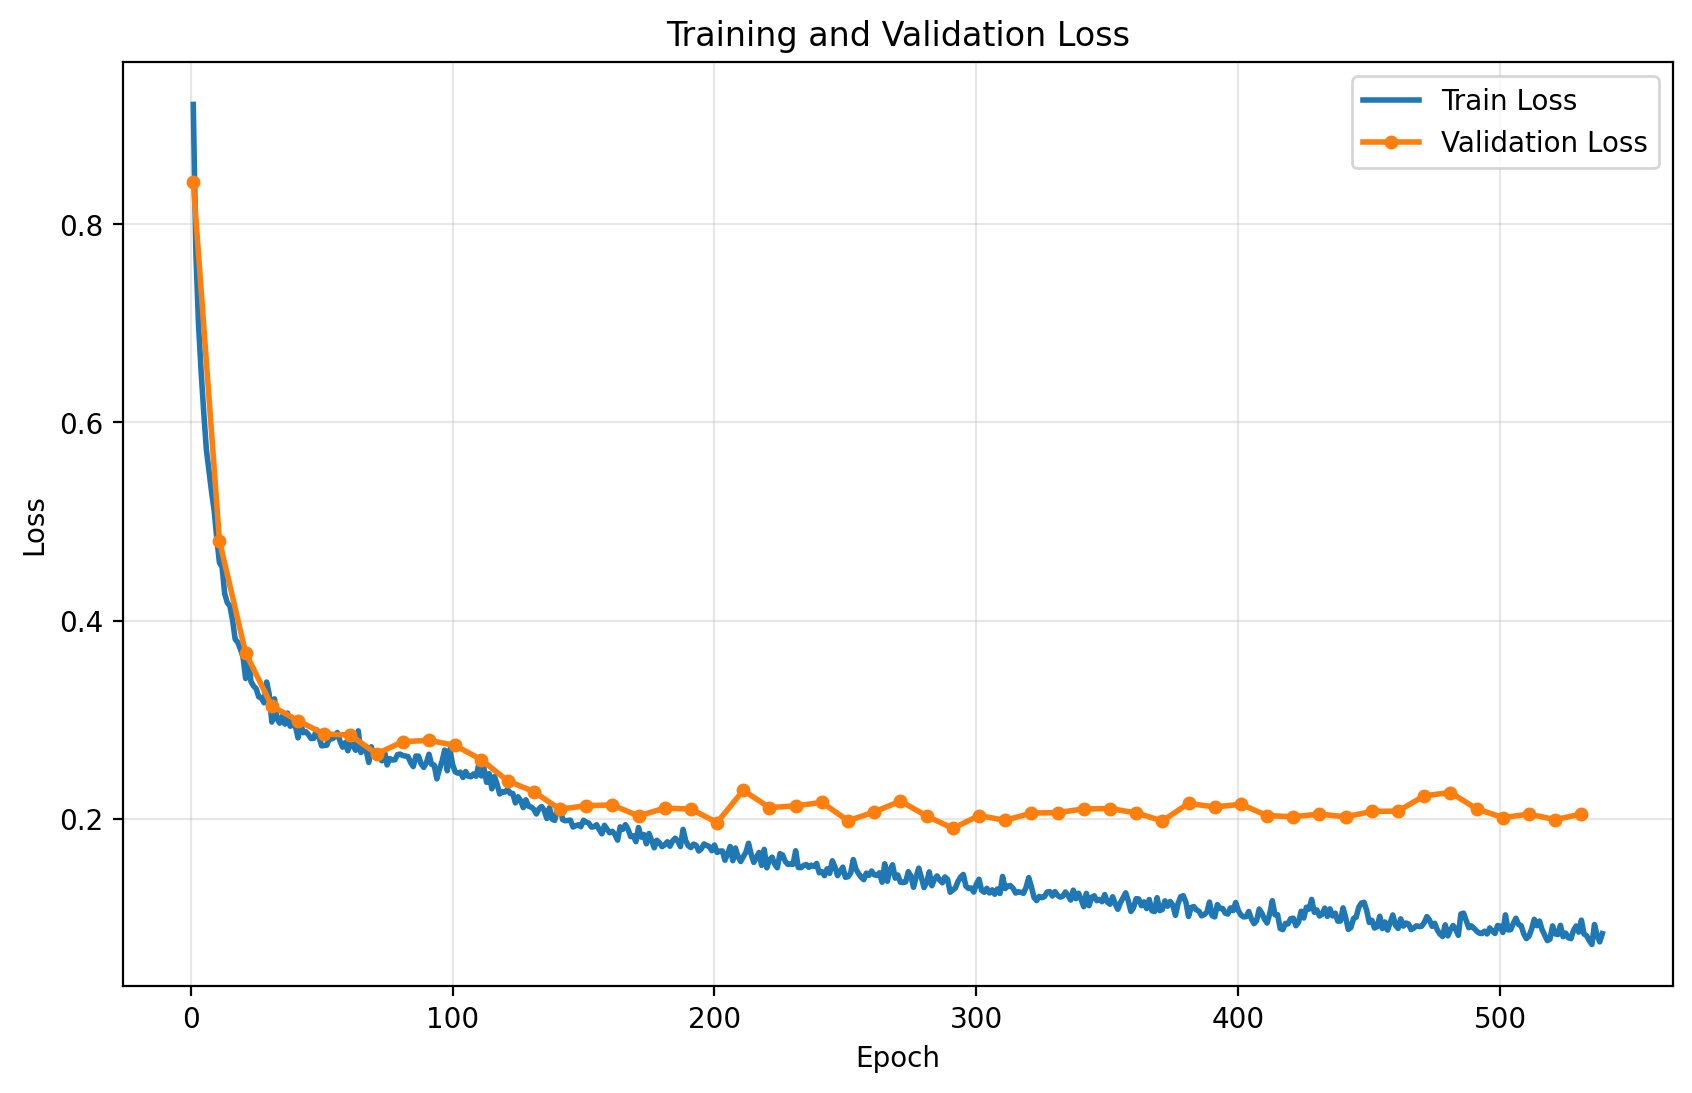
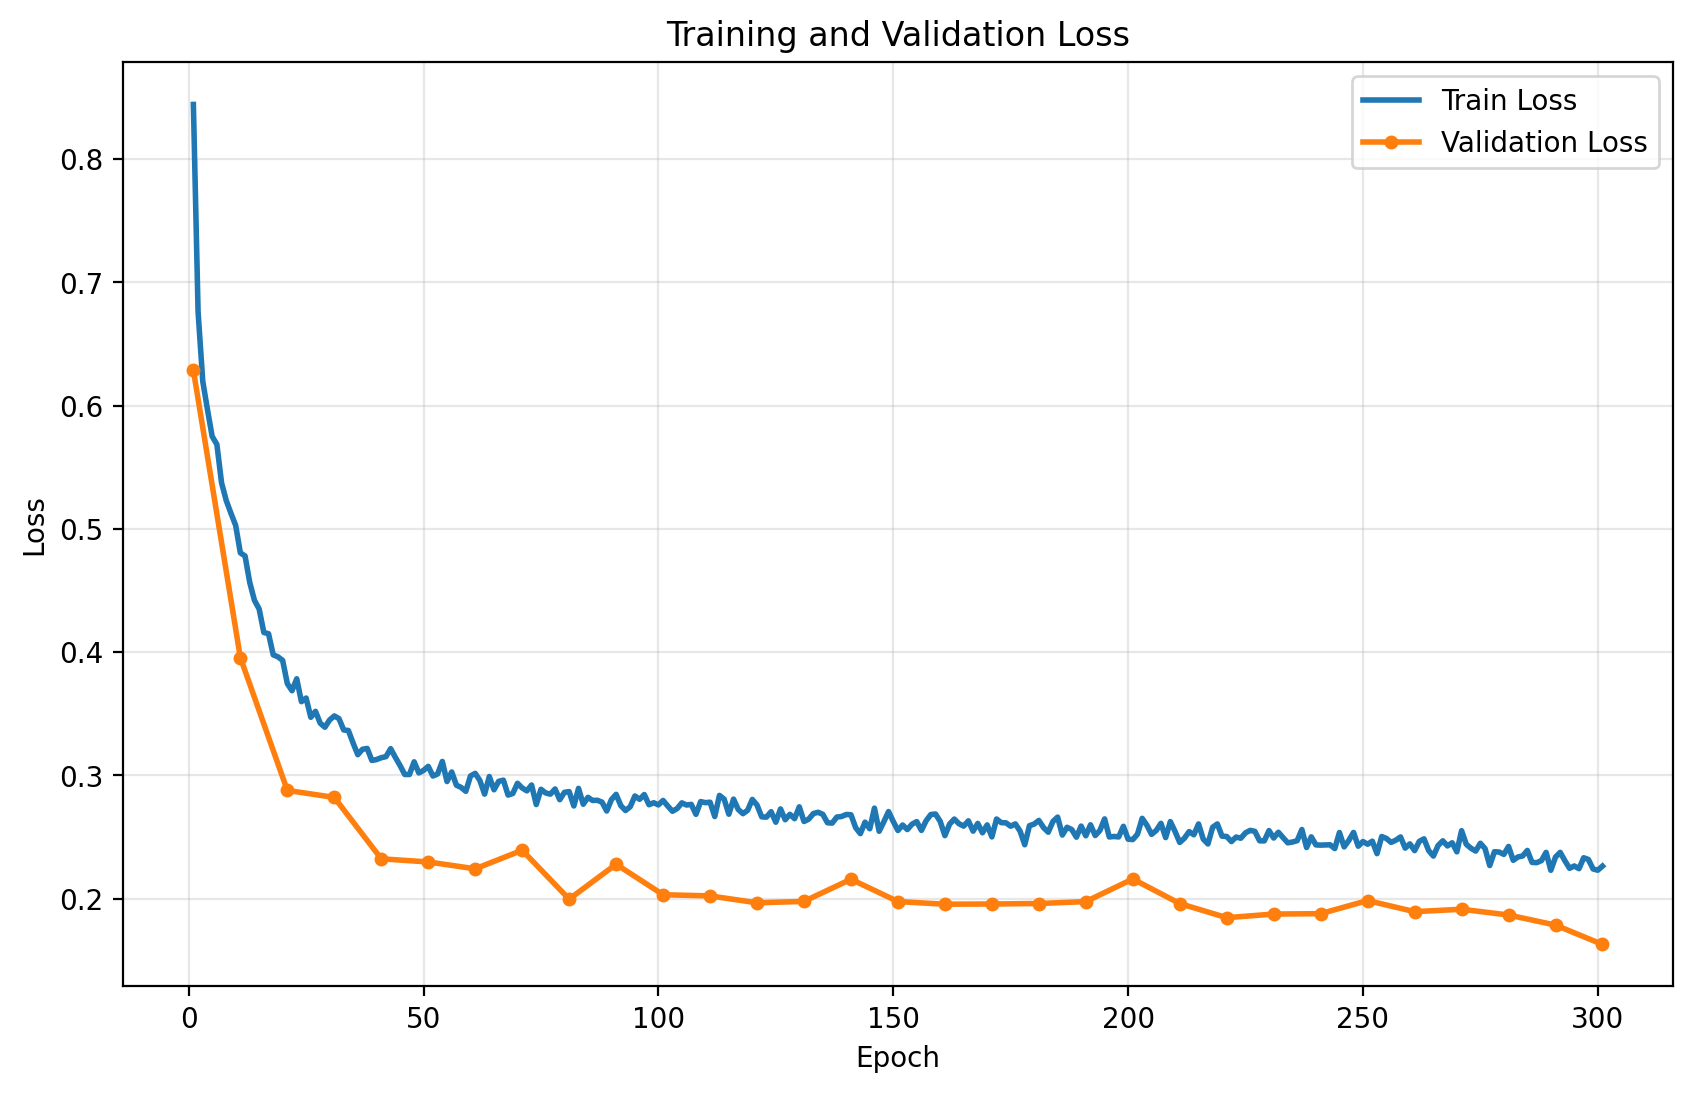
Added position history parameter to core functions to make it a changable variable

diff --git a/Mojoco_Contact_Wind_Estimation/display_results.py b/Mojoco_Contact_Wind_Estimation/display_results.py
@@ -139,31 +139,21 @@ def rollout_trajectory_feedback_shape_match(
 
     #Sets the initial predicted positions to be the same as the true positions for the first three frames,
     #which are used as the initial conditions for the rollout.
-    pred_positions = [
-        true_positions[0].clone(),
-        true_positions[1].clone(),
-        true_positions[2].clone(),
-    ]
+    pred_positions = [true_positions[t].clone() for t in range(h + 1)]
 
     #Performs the closed-loop rollout for the remaining frames in the trajectory, starting from frame 3.
     for _ in range(h, true_positions.shape[0] - 1):
 
-        #Unpacks the last three predicted positions, which are used to build the input features
-        #for the GNN model at the current step.
-        x_tm2 = pred_positions[-3]
-        x_tm1 = pred_positions[-2]
-        x_t = pred_positions[-1]
+        recent = pred_positions[-(h+1):]
 
         #This will take in the current predicted positions and the previous two predicted positions,
         #along with the edge indices, rest positions, and wall information, (Aswell as the normalization statistics if provided) 
         #and will output the node features and edge features that are used as input to the GNN model
         #for the current step of the rollout.
         x_node, e_attr = _build_feedback_features(
-            x_t, x_tm1, x_tm2, edge_index, rest_positions, Wall,
-            x_mean=x_mean,
-            x_std=x_std,
-            e_mean=e_mean,
-            e_std=e_std,
+            recent, edge_index, rest_positions, Wall,
+            x_mean=x_mean, x_std=x_std,
+            e_mean=e_mean, e_std=e_std,
             wind_vector=wind_vector
         )
 
@@ -186,7 +176,7 @@ def rollout_trajectory_feedback_shape_match(
 
         #Integrates the predicted accelerations to get the next predicted positions (x_next) 
         #using a simple finite difference scheme,
-        x_next = a_t + 2.0 * x_t - x_tm1
+        x_next = a_t + 2.0 * recent[-1] - recent[-2]
 
         #If shape matching is enabled, it applies the shape matching function to the predicted positions to correct for drift,
         if do_shape_match:  
@@ -362,28 +352,30 @@ def animate_cube(
 #This function builds the node features and edge features for a given time step in the rollout, 
 #using the current predicted positions, the previous two predicted positions, the edge indices,
 #rest positions, wall information, and normalization statistics if provided.
-def _build_feedback_features(x_t, x_tm1, x_tm2, edge_index, rest_positions, Wall,
+def _build_feedback_features(positions_history, edge_index, rest_positions, Wall,
                              wind_vector=None, x_mean=None, x_std=None, e_mean=None, e_std=None):
-    v_t = x_t - x_tm1
-    v_tm1 = x_tm1 - x_tm2
+    # positions_history is a list of h+1 position tensors, most recent last
+    x_t = positions_history[-1]
 
-    wall_n = torch.as_tensor(Wall.normal, dtype=x_t.dtype, device=x_t.device)
-    wall_c = torch.as_tensor(Wall.center_position, dtype=x_t.dtype, device=x_t.device)
-    b = torch.sum((x_t - wall_c) * wall_n, dim=-1, keepdim=True).clamp(0.0, 0.5)
+    # Build h velocity vectors via finite differences
+    v_fd = []
+    for k in range(len(positions_history) - 1):
+        v_fd.append(positions_history[-(k+1)] - positions_history[-(k+2)])
+    v_fd = torch.cat(v_fd, dim=-1)
+
+    if Wall is not None:
+        wall_n = torch.as_tensor(Wall.normal, dtype=x_t.dtype, device=x_t.device)
+        wall_c = torch.as_tensor(Wall.center_position, dtype=x_t.dtype, device=x_t.device)
+        b = torch.sum((x_t - wall_c) * wall_n, dim=-1, keepdim=True).clamp(0.0, 0.5)
 
     N = x_t.shape[0]
     wind_expanded = wind_vector.unsqueeze(0).expand(N, -1).to(x_t.device)
-    x_node = torch.cat([v_t, v_tm1, wind_expanded, b], dim=-1)
+    x_node = torch.cat([v_fd, wind_expanded, b], dim=-1)
 
-
-    #Calculates the edge features based on the current predicted positions and the rest positions, as well as the edge indices.
     src, dst = edge_index[0], edge_index[1]
-
-    #Distance vector between source and destination nodes for the current predicted positions, as well as its norm.
     d = x_t[src] - x_t[dst]
     d_norm = torch.norm(d, dim=-1, keepdim=True)
 
-    #Distance vector between source and destination nodes for the undeformed cube position, as well as its norm.
     if rest_positions is not None:
         d_u = rest_positions[src] - rest_positions[dst]
         d_u_norm = torch.norm(d_u, dim=-1, keepdim=True)
@@ -391,20 +383,13 @@ def _build_feedback_features(x_t, x_tm1, x_tm2, edge_index, rest_positions, Wall
         d_u = torch.zeros_like(d)
         d_u_norm = torch.zeros_like(d_norm)
 
-    #Combines the edge features into a single tensor, which includes the distance vector and its norm for both the 
-    #current predicted positions and the rest positions.
     e_attr = torch.cat([d, d_norm, d_u, d_u_norm], dim=-1)
 
-    #If normalization statistics are provided, it normalizes the node features and edge features using the provided
-    #means and standard deviations.
     if x_mean is not None and x_std is not None:
         x_node = (x_node - x_mean) / x_std
-
     if e_mean is not None and e_std is not None:
         e_attr = (e_attr - e_mean) / e_std
 
-    #Returns the node features and edge features for the current time step, which will be used as input to the GNN model
-    #for prediction.
     return x_node, e_attr
 
 

diff --git a/Mojoco_Contact_Wind_Estimation/run.py b/Mojoco_Contact_Wind_Estimation/run.py
@@ -90,6 +90,10 @@ batch_size=128
 #This is the learning rate for training the GNN.
 learning_rate = 4e-4
 
+#Noise scale for data augmentation. This is the standard deviation of the Gaussian noise added to the input positions
+# during training to help regularize the model and improve generalization.
+noise_scale = 1e-3
+
 #This is the total number of optimizer steps to train for. 
 steps = 100000
 
@@ -99,7 +103,7 @@ traj_timesteps = 200
 #This is an important parameter that sets how many past positions the model can see when making
 #its predictions. Basically giving the model more past positions can give it information about
 #the velocity and acceleration of the nodes, which can help it make better predictions.
-pos_history = 2
+pos_history = 3
 
 #The paper says it had a batch size of 64 on 8 gpus so to simulate the same effective batch size on a single GPU,
 # we use gradient accumulation over 8 steps.
@@ -127,7 +131,7 @@ validation_check_interval = 10
 #Augmentation shows the effect of random rotations on the trajectories. 
 #Rollout shows the model's predictions when rolled out over a trajectory, with shape matching to the true positions at each step.
 display_loss_curves = True
-display_stats = True
+display_stats = False
 show_meshed_cube = False
 show_augmentation = False
 show_rollout = True
@@ -142,12 +146,12 @@ extra_name = "" #CHANGE THIS----------------------------------------------------
 #------------------------------------------------------------------------------------------------------
 #This turns on and off model training, so you can train the model once, and then turn it off and just 
 #run the visualizations without having to retrain the model every time you run the code.
-Train = True
+Train = False
 #------------------------------------------------------------------------------------------------------
 
 #Model save/load settings.
 # save_model_path = os.path.join(script_dir, f"models/mojoco_{Used_Num_train_trajectories}_train{extra_name}/{Used_Num_train_trajectories}_train_gns_model.pt")
-save_model_path = os.path.join(script_dir, f"models/mojoco_no_wind_sliding/{Used_Num_train_trajectories}_train_gns_model.pt")
+save_model_path = os.path.join(script_dir, f"models/mojoco_no_wind_sliding_new_noise_h/{Used_Num_train_trajectories}_train_gns_model.pt")
 
 
 #Set False when resuming from an existing checkpoint to keep dataset and normalization consistent.
@@ -155,10 +159,13 @@ rebuild_datasets = True
 
 #Set this to a checkpoint file (for example: models/gns_model_epoch500.pt) to resume training.
 resume_training_checkpoint_path = None
+# resume_training_checkpoint_path = os.path.join(script_dir, f"models/mojoco_no_wind_sliding/{Used_Num_train_trajectories}_train_gns_model_epoch400.pt")
 
 #Set this to a checkpoint file or model file to load for inference.
 #If None, the script will load the final model saved after training.
-inference_model_path = None
+# inference_model_path = None
+inference_model_path = os.path.join(script_dir, f"models/mojoco_no_wind_sliding_new_noise_h/{Used_Num_train_trajectories}_train_gns_model_best_model.pt")
+
 # inference_model_path = os.path.join(script_dir, f"models/mojoco_{Used_Num_train_trajectories}_train{extra_name}/{Used_Num_train_trajectories}_train_gns_model_best_model.pt")
 
 #Trains the GNN model
@@ -197,7 +204,8 @@ if Train:
         repeat_blocks=repeat_blocks,
         resume_checkpoint_path=resume_training_checkpoint_path,
         epoch_checkpoint_interval=epoch_checkpoint_interval,
-        validation_check_interval = validation_check_interval
+        validation_check_interval = validation_check_interval,
+        noise_scale = noise_scale
     )
 
 
@@ -211,7 +219,8 @@ node_feat, edge_feat, edge_index, true_positions = generate_node_states.get_gns_
     nearest_neighbors=K_nearest_neighbors,
     data_folder=trajectory_folder,
     weights_only=weights_only_load,
-    unscale_data=unscale_trajectory_data
+    unscale_data=unscale_trajectory_data,
+    h = pos_history
 )
 
 node_dim = node_feat.shape[2]
@@ -299,7 +308,7 @@ if display_loss_curves:
 #mean angle error, and mean penitration error
 if display_stats:
     evaluate_metrics.evaluate_model(trajectory_folder, model, Floor, test_range, nodes_per_edge, K_nearest_neighbors, nodes_body, 
-                       accel_std, accel_mean, x_mean, x_std, e_mean, e_std, weights_only_load, unscale_trajectory_data)
+                       accel_std, accel_mean, x_mean, x_std, e_mean, e_std, weights_only_load, unscale_trajectory_data,pos_history)
 
 
 
@@ -349,7 +358,8 @@ if show_rollout:
         shape_alpha= 1.0,
         return_edge_info=True,
         weights_only_load=weights_only_load,
-        unscale_trajectory_data=unscale_trajectory_data
+        unscale_trajectory_data=unscale_trajectory_data,
+        h = pos_history
         
     )  
     display_results.animate_cube(

diff --git a/Mojoco_Contact_Wind_Estimation/evaluate_metrics.py b/Mojoco_Contact_Wind_Estimation/evaluate_metrics.py
@@ -101,7 +101,7 @@ def compute_metrics(pred_positions, true_positions, rest_positions):
 def evaluate_model(trajectory_folder, model, Wall, test_trajectory_indices, nodes_per_edge,
                    nearest_neighbors,
                    rest_positions, accel_std, accel_mean,
-                   x_mean, x_std, e_mean, e_std, weights_only_load, unscale_trajectory_data):
+                   x_mean, x_std, e_mean, e_std, weights_only_load, unscale_trajectory_data,h):
     
 
     all_center_errors = []
@@ -130,7 +130,8 @@ def evaluate_model(trajectory_folder, model, Wall, test_trajectory_indices, node
             shape_alpha=1.0,
             return_edge_info=True,
             weights_only_load=weights_only_load,
-            unscale_trajectory_data=unscale_trajectory_data
+            unscale_trajectory_data=unscale_trajectory_data,
+            h = h
         )
 
         #Computes the metrics for the current trajectory and appends them to the lists for averaging later.

diff --git a/Mojoco_Contact_Wind_Estimation/train_gnn.py b/Mojoco_Contact_Wind_Estimation/train_gnn.py
@@ -347,7 +347,8 @@ def train_gnn(Wall,
               unscale_data=True,
               resume_checkpoint_path=None,
               epoch_checkpoint_interval=500,
-              validation_check_interval=20):
+              validation_check_interval=20,
+              noise_scale=3e-4):
     
     #Sets device to GPU if available, otherwise CPU
     device = torch.device("cuda" if torch.cuda.is_available() else "cpu")
@@ -515,7 +516,7 @@ def train_gnn(Wall,
         #Resample noise each epoch and rebuild training samples/loader.
         noisy_samples = []
         for traj in dataset_train:
-            noisy_samples.extend(_build_timestep_samples(traj, Wall, h=h))
+            noisy_samples.extend(_build_timestep_samples(traj, Wall, h=h, noise_scale=noise_scale))
 
         _apply_input_normalization(noisy_samples, x_mean, x_std, e_mean, e_std)
         _apply_accel_normalization(noisy_samples, acc_mean, acc_std)
